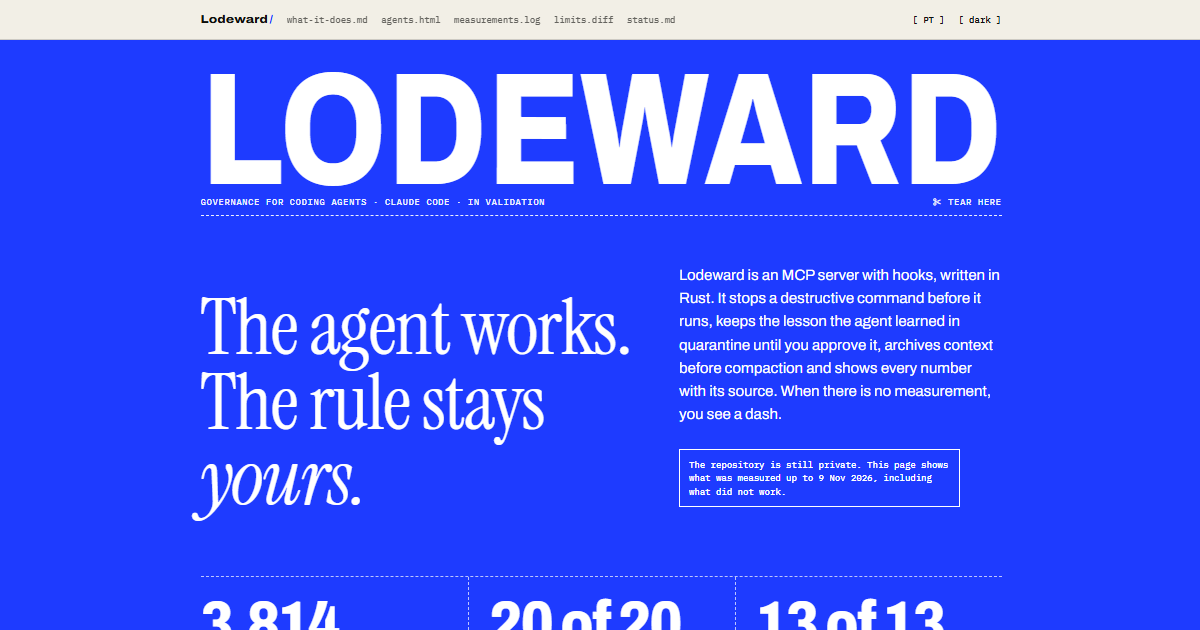
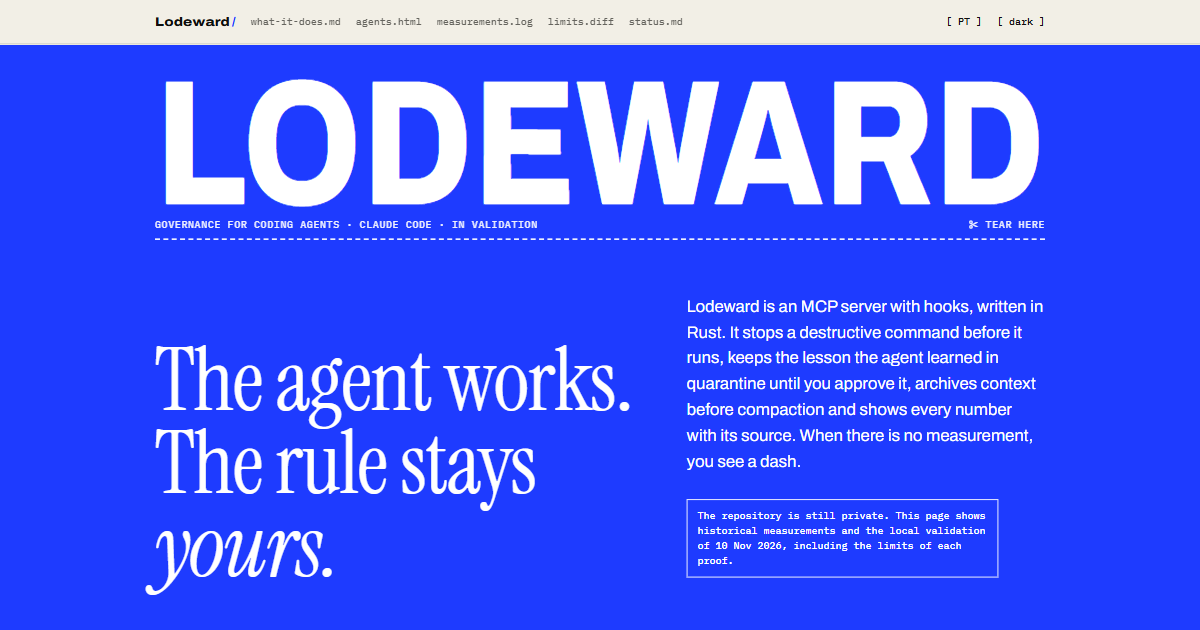
docs(lodeward): integrate verified rename evidence with current portfolio

diff --git a/lodeward/index.html b/lodeward/index.html
@@ -72,12 +72,12 @@ rotulo();b.addEventListener("click",function(){var n=atual()==="light"?"dark":"l
       <h1 id="h-heroi">O agente trabalha. A regra continua sendo <em>sua.</em></h1>
       <div>
         <p class="lide">Lodeward é um servidor MCP com hooks, escrito em Rust. Ele segura o comando destrutivo antes de rodar, deixa em quarentena a lição que o agente aprendeu até você aprovar, arquiva o contexto antes da compactação e mostra cada número com a origem. Quando não há medição, aparece um traço.</p>
-        <p class="aviso">O repositório ainda é privado. Esta página mostra o que foi medido até 09/11/2026, inclusive o que não deu certo.</p>
+        <p class="aviso">O repositório ainda é privado. Esta página mostra medições históricas e a validação local de 10/11/2026, inclusive os limites de cada prova.</p>
       </div>
     </div>
     <ul class="canhotos" role="list">
-      <li class="canhoto"><b>3.814</b><span>testes, 0 falhas</span><small>suíte completa em 08/11/2026</small></li>
-      <li class="canhoto"><b>20 de 20</b><span>verificações do ciclo de lições</span><small>quarentena, aprovação, rejeição e recarga</small></li>
+      <li class="canhoto"><b>4.213</b><span>execuções de teste aprovadas</span><small>G0 local · 10/11/2026 · 0 falhas, 26 ignoradas; inclui a suíte CLI repetida nos dois binários</small></li>
+      <li class="canhoto"><b>20 de 20</b><span>verificações históricas do ciclo de lições</span><small>protocolo anterior; a demonstração atual está na ficha F.02</small></li>
       <li class="canhoto"><b>13 de 13</b><span>comandos destrutivos bloqueados em replay</span><small>com 0 de 24 falsos positivos</small></li>
     </ul>
   </div>
@@ -119,12 +119,12 @@ rotulo();b.addEventListener("click",function(){var n=atual()==="light"?"dark":"l
       <article class="ficha sobe" aria-labelledby="f2">
         <div class="ficha-canhoto">
           <div><span class="mono num">F.02</span><h3 id="f2">Lição só vale depois que você aprova</h3></div>
-          <p class="destaque">20 de 20<small>verificações do ciclo de lições</small></p>
+          <p class="destaque">20 de 20<small>verificações históricas do ciclo de lições</small></p>
         </div>
         <dl>
-          <div><dt>O que faz</dt><dd>O que o agente propõe como lição entra em quarentena. Lição pendente não aparece na leitura. Aprovar não aplica: aplicar é outro passo, e desfazer restaura os bytes e o SHA-256 de antes.</dd></div>
-          <div class="prova"><dt>Prova</dt><dd>20 verificações do ciclo de lições e 17 do ciclo de propostas passaram no binário instalado, uma versão anterior à atual; ainda não foram repetidas no código de hoje. Em 12 pares de teste, o modelo foi de 12 abstenções para 12 aplicações exatas de regras aprovadas, num ambiente de teste com isolamento parcial.</dd></div>
-          <div class="limite"><dt>Limite</dt><dd>Das 48 propostas geradas pelo revisor automático, nenhuma foi aplicada, e 340 de 377 execuções pararam no teto diário. O mecanismo funciona. Que ele melhore o agente, não foi demonstrado.<span class="nota">Não encontramos outra ferramenta com este fluxo de aprovação de lições.</span></dd></div>
+          <div><dt>O que faz</dt><dd>O que o agente propõe como lição entra em quarentena. Lição pendente não aparece na recuperação; aprovar a torna disponível. No fluxo separado de propostas que alteram arquivos, aprovar e aplicar são passos distintos, e o rollback restaura os bytes e o SHA-256 anteriores.</dd></div>
+          <div class="prova"><dt>Prova</dt><dd>Em 10/11/2026, no release local aec177d0, duas lições artificiais ficaram invisíveis enquanto pendentes. A CLI aprovou uma e rejeitou outra; um novo processo MCP recuperou só a aprovada no projeto alpha, e nenhuma no beta. A busca de observações também respeitou o projeto nos casos Alpha/Beta testados.<span class="nota">Histórico separado: 20 verificações de lições e 17 de propostas passaram numa versão anterior; não foram repetidas nesta demonstração. Em 12 pares com modelo e isolamento parcial, houve 12 abstenções antes e 12 aplicações exatas de regras aprovadas depois.</span></dd></div>
+          <div class="limite"><dt>Limite</dt><dd>A demonstração atual usa dados artificiais, sem chamada a LLM nem credencial real. Não prova melhora do agente, segurança ao vivo ou isolamento universal. Aplicação e rollback de proposta não foram revalidados.<span class="nota">No histórico do revisor automático, nenhuma das 48 propostas foi aplicada, e 340 de 377 execuções pararam no teto diário.</span></dd></div>
         </dl>
       </article>
 
@@ -306,13 +306,17 @@ rotulo();b.addEventListener("click",function(){var n=atual()==="light"?"dark":"l
         <li><b>N4</b><span>Uso próprio diário</span></li>
         <li><b>N5</b><span>Uso público</span></li>
       </ol>
-      <p class="frase">Pela régua de avaliação que o próprio projeto escreveu antes de medir, o nível formal hoje é o de protótipo. Dos oito critérios, só a instalação limpa e reprodutível passou inteira.</p>
+      <p class="frase">Na avaliação de 09/11/2026, pela régua escrita antes de medir, o projeto ficou em N1: protótipo. Dos oito critérios, só a instalação limpa e reprodutível passou inteira. A validação local de 10/11 não repete a régua completa nem muda esse nível.</p>
 
       <p class="mono diff-titulo">Pronto</p>
       <ul class="diff" role="list">
-        <li class="mais">Suíte Rust verde em 08/11/2026: 3.814 testes, 0 falhas. Depois dela só mudou um script de medição.</li>
-        <li class="mais">Instalação limpa a partir do código, com diagnóstico em JSON válido.</li>
-        <li class="mais">Ciclo de lições e de propostas, com quarentena, aprovação e desfazer.</li>
+        <li class="mais">G0 local em aec177d0, 10/11/2026: 4.213 execuções de teste aprovadas, 0 falhas e 26 ignoradas. A mesma suíte CLI de 368 testes roda para lodeward e synapse; o total inclui essa repetição e não mede testes distintos ou cobertura nova. Formatação e clippy também passaram.</li>
+        <li class="mais">Build release local e os dois executáveis conferidos: lodeward e o alias synapse respondem “lodeward 0.3.0+aec177d0”. Três inicializações, medidas desde antes do spawn, ficaram abaixo de 2 s; o servidor se apresentou como lodeward.</li>
+        <li class="mais">tools/list preservado nos oito cenários comparados com a captura real da base 70e415e8, feita na rodada anterior e reutilizada com hashes conferidos. A base não foi executada de novo. O JSON completo coincidiu após ordenar as chaves dos objetos, preservando a ordem dos arrays, as descrições e os schemas.</li>
+        <li class="mais">Demonstração isolada de quarentena, aprovação, rejeição e recuperação em outro processo, com dados artificiais. Os filtros de projeto passaram nos casos testados.</li>
+        <li class="mais">Ciclos separados: lições com quarentena e aprovação; propostas com aprovação, aplicação e rollback. O fluxo de propostas não foi revalidado nesta rodada.</li>
+        <li class="mais">Instalação limpa e diagnóstico em JSON válido comprovados na avaliação histórica de 09/11.</li>
+        <li class="mais">Revisão independente por agente aprovou o rename local em aec177d0. A avaliação completa do produto permanece separada.</li>
         <li class="mais">Página Agentes com editor.</li>
       </ul>
 
@@ -323,7 +327,8 @@ rotulo();b.addEventListener("click",function(){var n=atual()==="light"?"dark":"l
         <li class="menos">Uma rodada ao vivo de segurança que chegue ao fim.</li>
         <li class="menos">Repositório público novo, já com o nome Lodeward.</li>
       </ul>
-      <p class="nome-antigo">O projeto se chamava SynapseEngine. O código ainda usa esse nome.</p>
+      <p class="nome-antigo">O projeto se chamava SynapseEngine. A validação local em aec177d0, registrada em 10/11/2026, conferiu lodeward e o alias synapse. O repositório é privado; esta prova não representa release pública nem prontidão do produto.</p>
+      <p class="nome-antigo"><a href="../docs/lodeward-atualizacao-2026-11-10.md">Fontes, hashes e alcance das provas desta atualização.</a></p>
     </div>
   </div>
 </section>
@@ -339,7 +344,7 @@ rotulo();b.addEventListener("click",function(){var n=atual()==="light"?"dark":"l
 </main>
 
 <footer class="pe">
-  <div class="caixa"><span>Lodeward · página de projeto · 09/11/2026</span><a href="../#p-syn">← portfólio de Marcelo Machuca</a></div>
+  <div class="caixa"><span>Lodeward · página de projeto · 10/11/2026</span><a href="../#p-syn">← portfólio de Marcelo Machuca</a></div>
 </footer>
 </body>
 </html>

diff --git a/en/lodeward/index.html b/en/lodeward/index.html
@@ -72,12 +72,12 @@ rotulo();b.addEventListener("click",function(){var n=atual()==="light"?"dark":"l
       <h1 id="h-heroi">The agent works. The rule stays <em>yours.</em></h1>
       <div>
         <p class="lide">Lodeward is an MCP server with hooks, written in Rust. It stops a destructive command before it runs, keeps the lesson the agent learned in quarantine until you approve it, archives context before compaction and shows every number with its source. When there is no measurement, you see a dash.</p>
-        <p class="aviso">The repository is still private. This page shows what was measured up to 9 Nov 2026, including what did not work.</p>
+        <p class="aviso">The repository is still private. This page shows historical measurements and the local validation of 10 Nov 2026, including the limits of each proof.</p>
       </div>
     </div>
     <ul class="canhotos" role="list">
-      <li class="canhoto"><b>3,814</b><span>tests, 0 failures</span><small>full suite on 8 Nov 2026</small></li>
-      <li class="canhoto"><b>20 of 20</b><span>lesson cycle checks</span><small>quarantine, approval, rejection and reload</small></li>
+      <li class="canhoto"><b>4,213</b><span>passing test executions</span><small>local G0 · 10 Nov 2026 · 0 failures, 26 ignored; includes the CLI suite repeated for both binaries</small></li>
+      <li class="canhoto"><b>20 of 20</b><span>historical lesson cycle checks</span><small>earlier protocol; the current demonstration is in F.02</small></li>
       <li class="canhoto"><b>13 of 13</b><span>destructive commands blocked in replay</span><small>with 0 of 24 false positives</small></li>
     </ul>
   </div>
@@ -119,12 +119,12 @@ rotulo();b.addEventListener("click",function(){var n=atual()==="light"?"dark":"l
       <article class="ficha sobe" aria-labelledby="f2">
         <div class="ficha-canhoto">
           <div><span class="mono num">F.02</span><h3 id="f2">A lesson counts only after you approve it</h3></div>
-          <p class="destaque">20 of 20<small>lesson cycle checks</small></p>
+          <p class="destaque">20 of 20<small>historical lesson cycle checks</small></p>
         </div>
         <dl>
-          <div><dt>What it does</dt><dd>What the agent proposes as a lesson goes into quarantine. A pending lesson does not show up when the agent reads. Approving does not apply: applying is a separate step, and undoing restores the previous bytes and SHA-256.</dd></div>
-          <div class="prova"><dt>Proof</dt><dd>20 lesson cycle checks and 17 proposal cycle checks passed on the installed binary, an earlier version than the current one. They have not been repeated on today's code. In 12 test pairs, the model went from 12 abstentions to 12 exact applications of approved rules, in a test environment with partial isolation.</dd></div>
-          <div class="limite"><dt>Limit</dt><dd>Of the 48 proposals generated by the automatic reviewer, none was applied, and 340 of 377 runs stopped at the daily cap. The mechanism works. That it improves the agent has not been demonstrated.<span class="nota">We did not find another tool with this lesson approval flow.</span></dd></div>
+          <div><dt>What it does</dt><dd>What the agent proposes as a lesson goes into quarantine. A pending lesson does not appear in retrieval; approval makes it available. In the separate flow for proposals that change files, approval and application are distinct steps, and rollback restores the previous bytes and SHA-256.</dd></div>
+          <div class="prova"><dt>Proof</dt><dd>On 10 Nov 2026, using local release aec177d0, two artificial lessons were invisible while pending. The CLI approved one and rejected the other; a new MCP process retrieved only the approved lesson in project alpha, and none in beta. Observation search also respected the project in the Alpha/Beta cases tested.<span class="nota">Separate historical evidence: 20 lesson checks and 17 proposal checks passed on an earlier version; this demonstration did not repeat them. In 12 pairs with a model and partial isolation, there were 12 abstentions before and 12 exact applications of approved rules after.</span></dd></div>
+          <div class="limite"><dt>Limit</dt><dd>The current demonstration uses artificial data, with no LLM call or real credential. It does not establish an improvement in the agent, live security or universal isolation. Proposal application and rollback were not revalidated.<span class="nota">In the automatic reviewer's historical record, none of 48 proposals was applied, and 340 of 377 runs stopped at the daily cap.</span></dd></div>
         </dl>
       </article>
 
@@ -306,13 +306,17 @@ rotulo();b.addEventListener("click",function(){var n=atual()==="light"?"dark":"l
         <li><b>N4</b><span>Own daily use</span></li>
         <li><b>N5</b><span>Public use</span></li>
       </ol>
-      <p class="frase">By the rubric the project wrote for itself before measuring, the formal level today is prototype. Of the eight criteria, only the clean, reproducible install passed in full.</p>
+      <p class="frase">In the 9 Nov 2026 evaluation, under the rubric written before measuring, the project reached N1: prototype. Of the eight criteria, only the clean, reproducible install passed in full. The local validation of 10 Nov does not repeat the full rubric or change this level.</p>
 
       <p class="mono diff-titulo">Done</p>
       <ul class="diff" role="list">
-        <li class="mais">Rust suite green on 8 Nov 2026: 3,814 tests, 0 failures. After it, only a measurement script changed.</li>
-        <li class="mais">Clean install from the code, with diagnostics in valid JSON.</li>
-        <li class="mais">Lesson and proposal cycle, with quarantine, approval and undo.</li>
+        <li class="mais">Local G0 on aec177d0, 10 Nov 2026: 4,213 passing test executions, 0 failures and 26 ignored. The same CLI suite of 368 tests runs for lodeward and synapse; the total includes that repetition and does not measure unique tests or new coverage. Formatting and clippy also passed.</li>
+        <li class="mais">Local release build and both binaries checked: lodeward and the synapse alias report “lodeward 0.3.0+aec177d0”. Three initializations, measured from before spawn, were below 2 s; the server identified itself as lodeward.</li>
+        <li class="mais">tools/list was preserved in the eight scenarios compared with the real capture of baseline 70e415e8, made in the previous round and reused with verified hashes. The baseline was not run again. The complete JSON matched after sorting object keys, preserving array order, descriptions and schemas.</li>
+        <li class="mais">Isolated demonstration of quarantine, approval, rejection and retrieval in another process, using artificial data. Project filters passed in the cases tested.</li>
+        <li class="mais">Separate cycles: lessons with quarantine and approval; proposals with approval, application and rollback. The proposal flow was not revalidated in this round.</li>
+        <li class="mais">Clean install and diagnostics in valid JSON established in the historical evaluation of 9 Nov.</li>
+        <li class="mais">An independent agent review approved the local rename on aec177d0. The full product evaluation remains separate.</li>
         <li class="mais">Agents page with an editor.</li>
       </ul>
 
@@ -323,7 +327,8 @@ rotulo();b.addEventListener("click",function(){var n=atual()==="light"?"dark":"l
         <li class="menos">A live security run that reaches the end.</li>
         <li class="menos">A new public repository, already named Lodeward.</li>
       </ul>
-      <p class="nome-antigo">The project used to be called SynapseEngine. The code still uses that name.</p>
+      <p class="nome-antigo">The project used to be called SynapseEngine. Local validation on aec177d0, recorded on 10 Nov 2026, checked lodeward and the synapse alias. The repository is private; this evidence does not represent a public release or product readiness.</p>
+      <p class="nome-antigo"><a href="../../docs/lodeward-atualizacao-2026-11-10.md">Sources, hashes and scope of this update's evidence.</a></p>
     </div>
   </div>
 </section>
@@ -339,7 +344,7 @@ rotulo();b.addEventListener("click",function(){var n=atual()==="light"?"dark":"l
 </main>
 
 <footer class="pe">
-  <div class="caixa"><span>Lodeward · project page · 9 Nov 2026</span><a href="../#p-syn">← Marcelo Machuca's portfolio</a></div>
+  <div class="caixa"><span>Lodeward · project page · 10 Nov 2026</span><a href="../#p-syn">← Marcelo Machuca's portfolio</a></div>
 </footer>
 </body>
 </html>

diff --git a/index.html b/index.html
@@ -181,11 +181,11 @@
   <div class="stop l" data-stop>
     <div class="pair">
       <article class="sheet rv" id="p-syn" data-build="2" data-mod="2" aria-labelledby="t-syn">
-        <header class="sh-head"><b>M-03</b><span>privado</span><span>Rust</span><span class="sh-r">988 commits</span><!-- 988 = git rev-list --count origin/main (70e415e8, 2026-11-08); o repositório ainda tem o nome antigo, SynapseEngine --></header>
+        <header class="sh-head"><b>M-03</b><span>privado</span><span>Rust</span><span class="sh-r">nível N1</span><!-- 988 = git rev-list --count origin/main (70e415e8, 2026-11-08); o repositório ainda tem o nome antigo, SynapseEngine --></header>
         <h3 class="sh-title" id="t-syn">Lodeward</h3>
         <p class="sh-lede">Governança para agentes de código no Claude Code: servidor MCP e hooks em Rust.</p>
         <p>Inspeciona cada comando de shell antes de o agente rodar, deixa a lição do agente em quarentena até o dono aprovar e mostra só números que de fato mediu. Antes se chamava SynapseEngine.</p>
-        <p class="sh-fact">988 commits desde 13 set 2026</p>
+        <p class="sh-fact">N1 · protótipo pela régua do projeto, avaliada em 09/11/2026</p>
         <p>A primeira camada aberta é o <b>Lodemap</b>: mapa vivo da arquitetura, com fluxos, histórico por versão e evidências para acompanhar mudanças.</p>
         <p><a class="lnk" href="lodeward/">Ver a página do Lodeward →</a></p><p><a class="lnk" href="lodemap/">Ver a página do Lodemap →</a></p><p><a class="lnk" href="lodemap/demo/">Abrir a demo do axios →</a></p><p><a class="lnk" href="https://github.com/skarL007/lodemap" rel="noopener">Código do Lodemap no GitHub →</a></p><p class="priv">Lodeward: repositório privado</p> <p class="priv">Lodemap: código aberto · MIT</p>
       </article>

diff --git a/en/index.html b/en/index.html
@@ -179,11 +179,11 @@
   <div class="stop l" data-stop>
     <div class="pair">
       <article class="sheet rv" id="p-syn" data-build="2" data-mod="2" aria-labelledby="t-syn">
-        <header class="sh-head"><b>M-03</b><span>private</span><span>Rust</span><span class="sh-r">988 commits</span></header>
+        <header class="sh-head"><b>M-03</b><span>private</span><span>Rust</span><span class="sh-r">level N1</span></header>
         <h3 class="sh-title" id="t-syn">Lodeward</h3>
         <p class="sh-lede">Governance for coding agents on Claude Code: an MCP server and hooks in Rust.</p>
         <p>It inspects every shell command before the agent runs it, keeps the agent's lessons in quarantine until the owner approves them, and shows only numbers it actually measured. Formerly SynapseEngine.</p>
-        <p class="sh-fact">988 commits since 13 Sep 2026</p>
+        <p class="sh-fact">N1 · prototype under the project rubric, evaluated on 9 Nov 2026</p>
         <p>The first layer to open is <b>Lodemap</b>: a versioned architecture map with navigable flows and a history of changes. Scripts generate the pages, and a test flags modules outside the model.</p>
         <p><a class="lnk" href="lodeward/">See the Lodeward page →</a></p>
         <p><a class="lnk" href="../lodemap/" hreflang="pt-BR">See the Lodemap page (in Portuguese) →</a></p>

diff --git a/docs/lodeward-atualizacao-2026-11-10.md b/docs/lodeward-atualizacao-2026-11-10.md
@@ -1,0 +1,110 @@
+# Lodeward: contrato e fontes da atualização de 10/11/2026
+
+Registro de preparação pré-publicação em 10/11/2026. Os estados de integração, disponibilidade e aprovação abaixo correspondem a este registro datado.
+
+## Objetivo e escopo
+
+Atualizar a página do Lodeward e o cartão nas homes em português e inglês, preservando a identidade de cobalto, papel e fichas de comprovantes. Preparar um rascunho de LinkedIn para revisão do dono. Nenhuma publicação, commit, push, PR ou merge faz parte desta etapa.
+
+Arquivos de produto permitidos: `lodeward/index.html`, `en/lodeward/index.html` e somente o cartão Lodeward em `index.html` e `en/index.html`. Em `assets/site.js`, a exceção autorizada é trocar o nome visível do projeto e o rótulo de delegação pt/en por Lodeward, preservando IDs, geometria, contagens e demais dados. A folha `assets/lodeward/lodeward.css` só será alterada se uma falha visual exigir. As imagens `assets/lodeward/og-pt.png` e `og-en.png` podem ser regeneradas como capturas reais para refletir o hero final. Os documentos desta atualização usam o prefixo `docs/lodeward-`.
+
+## Aceitação e mudanças
+
+| Critério | Mudança prevista | Evidência exigida |
+|---|---|---|
+| Marca fiel ao estado local | Explicar o executável `lodeward` e o alias `synapse`, distinguindo validação local de release pública | G0, release, versões, initialize e comparação completa de `tools/list` conferidos em `aec177d0`; correções dos scripts auxiliares verificadas e revisão independente por agente aprovada no escopo local |
+| Nível sem promoção indevida | Manter N1, identificar a avaliação histórica e explicar protótipo | Régua pré-registrada e avaliação de 09/11/2026 |
+| Cartões com status verificável | Substituir o contador de commits sem fonte por nível N1 e data da avaliação | Mesma avaliação histórica |
+| Nenhuma exclusividade presumida | Descrever a aprovação de lições para recuperação; separar aprovação, aplicação e rollback de propostas de arquivos | Protocolo de reprodução do ciclo de aprendizagem |
+| Números com origem e data | Atualizar o G0 com execuções aprovadas, ignoradas e repetição da suíte CLI; separar cada protocolo | G0 em `aec177d0`, fontes e hashes abaixo |
+| Visual aprovado preservado | Usar HTML e estilos existentes | Navegador real em desktop e celular, claro e escuro; screenshots inspecionados |
+| Página navegável e íntegra | Verificar tema, âncoras, idiomas, cartão, assets, metadados e ausência de overflow | Relatório de Playwright com Edge, console e erros de página |
+| Post revisável | Texto pt-BR/EN com problema, fluxo, prova datada e limites | `docs/lodeward-linkedin-2026-11-10.md` |
+
+## Fontes históricas
+
+Os caminhos desta tabela são relativos ao repositório privado do motor. São referências de auditoria, não links públicos nem instruções de instalação. As provas históricas não validam automaticamente o ramo de rename.
+
+| Afirmação | Fonte e alcance |
+|---|---|
+| N1, protótipo; só V6 integralmente aprovado em 09/11/2026 | `docs/EVALUATION_RUBRIC.md:9-14,20-27,37-39`; avaliação sobre `70e415e8`, registrada em `docs/plans/lodeward-landing-contrato.md`, seção 6 |
+| G0 histórico: 3.814 testes, zero falhas | G0 r5 em `ef5213a0`, 08/11/2026, registrado no contrato anterior, seção 6; não é o resultado do rename |
+| Ciclo de lições com 20 verificações; fluxo separado de propostas com 17, aprovação distinta da aplicação e undo que restaura bytes e SHA-256 | `docs/evidence/release_2026_11_03/MCP_APRENDIZAGEM_REPRODUCAO.md:21-22,66-68`; binário instalado anterior ao código atual |
+| Recuperação em empate: 457 contra 456 em 470 consultas | `docs/evidence/release_2026_11_03/MATRIZ_BENCHMARKS.md:9` |
+| Economia em sessão longa não demonstrada | `docs/evidence/release_2026_11_03/MATRIZ_BENCHMARKS.md:10`; razão 1,2133 em 45 pares |
+| Comparação A/B da compactação ainda não executada | `docs/plans/lodeward-landing-contrato.md:151,224`; medição pendente, separada do benchmark de sessão longa |
+| Rodada ao vivo de segurança abortada em duas tentativas | `docs/benchmarks/ab_completo/RESULTADO_REV5.md:77-79` e `docs/benchmarks/ab_completo/DESVIO_D5-7_CAMADA1.md:9`, conforme contrato anterior |
+| Tokens, quando citados | Sempre estimativa por bytes ÷ 4, sem conversão financeira |
+
+Os demais números históricos preservados na página mantêm as fontes da seção 6 de `docs/plans/lodeward-landing-contrato.md`; o cupom continua datado até 09/11/2026. A demonstração local de 10/11 é uma prova adicional, não uma repetição de todos esses protocolos.
+
+## Provas locais de 10/11/2026
+
+Pacote de evidências identificado como `rename-lodeward/2026-11-10-aec177d0`, mantido localmente. Os nomes abaixo identificam os arquivos auditados, sem expor diretórios privados. Estes arquivos não são apresentados como links públicos. O commit testado é `aec177d09be8e6dffd1262d2152e37d167f53e91`.
+
+| Afirmação | Fonte e alcance |
+|---|---|
+| G0 aprovado; 4.213 execuções aprovadas, zero falhas, 26 ignoradas, 24 filtradas, 263 grupos de resumo | `g0-result.json`: campos `status`, `head`, `gates`, `test_summary_blocks` e `test_counts`; `test.log` com SHA-256 abaixo |
+| O total conta execuções, não testes distintos nem cobertura nova | `g0-result.json`: `counting_note`, `cli_main_blocks`; a mesma suíte `main.rs` tem 368 execuções no alvo lodeward e 368 no alvo synapse; há resumos de processos filhos |
+| Formatação e lint passaram | `g0-result.json`: `cargo fmt --all -- --check` e `cargo clippy --workspace --all-targets -- -D warnings`, ambos com código de saída 0 |
+| Build release local passou | `runtime-result.json`: `builds[label=current]`, comando `cargo build --release -p lodeward-cli --bins`, saída 0; não equivale a build release de todo o workspace nem release pública |
+| Os dois executáveis reportam literalmente `lodeward 0.3.0+aec177d0` | `runtime-result.json`: `versions`, comandos `lodeward.exe --version` e `synapse.exe --version`, ambos com saída 0 |
+| Três inicializações abaixo de 2 s, contando desde antes do spawn | `runtime-result.json`: `runs[current-repeat1..3].initialize_total_ms` = 25.025499984622, 23.825000040233135 e 23.131900001317263 ms; `server_name=lodeward` e saída 0 nas três amostras. Não é garantia sobre toda execução |
+| `tools/list` preservado nos oito cenários comparados com a captura real de `70e415e8` | `runtime-result.json`: `comparisons`, todas com `byte_identical=true`; `baseline_mode` e `baseline_provenance` registram captura da rodada `aa650f9a`, reutilizada com hashes e proveniência conferidos. A base não foi executada novamente nesta rodada. `runtime-report.md` documenta ordenação recursiva de chaves de objetos sem remover campos, preservando ordem dos arrays, descrições e schemas |
+| Quarentena invisível, aprovação/rejeição e recuperação em novo processo | `fluxo/runtime-9h93rdo5/workflow-result.json`, critérios `quarentena`, `invisivel_antes`, `recuperacao_apos_aprovacao` e `rejeicao`; eventos `01`, `03`, `04` e `05` do `workflow-log.json` |
+| Filtros de projeto nos casos demonstrativos | Critérios `filtro_projeto_licao` e `isolamento_busca_observacoes`; eventos `05`, `07` e `08` do mesmo log. São casos artificiais Alpha/Beta, não uma prova universal de isolamento |
+| Binário do fluxo preservado | `workflow-result.json`: SHA-256 esperado, antes e depois iguais ao hash de lodeward.exe abaixo. O fluxo não leu o Git HEAD; a associação ao release vem do hash e do registro do operador |
+| Revisão independente por agente aprova o rename/local, sem achado acionável aberto nesse escopo | `review-g1-final/report.md` e `evidence-check.json`, HEAD `aec177d0`; conferência direta de código, reproduções e evidências. Não é revisão externa de usuário, certificação global do produto, promoção de nível ou autorização de publicação |
+
+Os executáveis finais foram preservados como cópias independentes em `artifacts/`, com link count 1 e identidades de arquivo distintas do target, conforme `runtime-result.json`: `executable_copies`. A demonstração de lições foi repetida com esse binário final; não se transferiu o resultado do executável anterior.
+
+Transcrição sanitizada do fluxo observado:
+
+```text
+01: duas lições artificiais registradas como LEARNING_QUARANTINED;
+    leitura do projeto alpha: learnings=[], pending_total=2.
+03: CLI aprovou a primeira lição.
+04: CLI rejeitou a segunda lição.
+05: outro processo recuperou apenas a lição aprovada em alpha;
+    leitura de beta: learnings=[], returned=0.
+07: observações artificiais com termos diferentes registradas em Alpha e Beta.
+08: outro processo em Alpha encontrou o termo de Alpha;
+    busca pelo termo exclusivo de Beta: results=[], total=0.
+```
+
+Passaram seis critérios funcionais e a verificação de hash. Essa demonstração usa dados artificiais e runtime novo isolado. Não chamou LLM, não usou credencial real e não revalidou aplicação ou rollback de proposta. Não equivale a repetir os 20/17 checks históricos.
+
+### Cenários de catálogo MCP
+
+Os oito cenários com JSON completo coincidente entre o release local final e os dados reais da base anterior, capturados na rodada `aa650f9a` e reutilizados com integridade verificada:
+
+| Perfil | `outputSchema` completo | Ferramentas por lado |
+|---|---|---|
+| default | não | 19 |
+| core | não | 19 |
+| review | não | 4 |
+| factory | não | 44 |
+| agent | não | 6 |
+| factory-agent | não | 11 |
+| full | não | 58 |
+| full | sim | 58 |
+
+São verificações de catálogo, não chamadas às ferramentas. O resultado não demonstra compatibilidade integral dos scripts ou comportamento de todo o produto.
+
+### Integridade dos artefatos
+
+| Artefato | SHA-256 |
+|---|---|
[5 lines of base64/hex data omitted]
+
+## Limites que permanecem
+
+N1 não é N3 nem validação de produto. A avaliação completa não foi repetida no ramo de rename. A recuperação ficou em empate; a economia em sessão longa não foi demonstrada; a segurança ao vivo foi abortada. A comparação A/B da compactação ainda não rodou e não é o benchmark de sessão longa. Um teste do mecanismo de lições não demonstra melhora geral de um modelo. O repositório continua privado, e validação local não é lançamento público.
+
+## Revisão local e registro pré-publicação
+
+A comparação de `tools/list` passou nos oito cenários descritos. As correções dos scripts auxiliares foram verificadas e a revisão independente por agente aprovou o rename/local em `aec177d0`, sem achado acionável aberto nesse escopo. Não se alega certificação geral de compatibilidade nem alteração do nível N1. Este registro documenta a validação local de 10/11/2026; não representa release pública nem prontidão do produto. A inspeção do cartão pelo LinkedIn não faz parte desta verificação local. Este documento registra a preparação para revisão pública do texto; decisões posteriores de publicação devem ser registradas separadamente.

diff --git a/docs/lodeward-linkedin-2026-11-10.md b/docs/lodeward-linkedin-2026-11-10.md
@@ -1,0 +1,66 @@
+# Lodeward: rascunho LinkedIn de 10/11/2026
+
+Versão preparada para revisão pré-publicação do dono em 10/11/2026. Este registro descreve o estado naquela data; não registra autorizações ou publicações posteriores. As fontes e os limites estão após as duas versões; não precisam acompanhar o texto do post.
+
+## Português
+
+Uma lição errada pode virar contexto para a próxima decisão de um agente de código. Eu queria conseguir revisar essa lição antes de ela ser usada.
+
+É um dos problemas que estou trabalhando no Lodeward, um servidor MCP com hooks em Rust para agentes de código no Claude Code.
+
+O fluxo é explícito: o agente propõe uma lição, ela entra em quarentena, e o dono decide se aprova. A lição aprovada fica disponível à recuperação.
+
+Propostas que alteram arquivos têm um fluxo separado: aprovação e aplicação são passos distintos. O rollback da proposta restaura os bytes e o SHA-256 anteriores; esse fluxo não foi revalidado na rodada de hoje.
+
+Na demonstração local de 10/11/2026, com o binário aec177d0, duas lições artificiais ficaram invisíveis enquanto pendentes. Depois de aprovar uma e rejeitar outra pela CLI, um novo processo MCP recuperou só a aprovada no projeto alpha, e nenhuma no beta. A busca de observações também respeitou o projeto nos casos Alpha/Beta testados.
+
+Isso demonstra o mecanismo nesses casos, com dados artificiais. Não houve chamada a LLM nem credencial real. A execução não prova melhora do agente, segurança ao vivo ou isolamento universal.
+
+A página também mostra o que não deu certo. A recuperação ficou em empate com BM25. A economia em sessão longa não foi demonstrada. A rodada ao vivo de segurança foi abortada nas duas tentativas registradas.
+
+A comparação A/B da compactação ainda não rodou. Ela é uma medição pendente, separada do benchmark de sessão longa.
+
+Neste registro de 10/11/2026, o nível formal permanece N1, protótipo, pela avaliação de 09/11/2026. A validação local em aec177d0 conferiu o executável lodeward e o alias synapse. O repositório é privado; essa prova não representa release pública nem prontidão do produto.
+
+Página com medições e limites: https://skarl007.github.io/lodeward/
+
+#mcp #agentesdeia #rust #engenhariadesoftware
+
+## English
+
+A wrong lesson can become context for a coding agent's next decision. I wanted to review that lesson before it was used.
+
+That is one of the problems I am working on with Lodeward, an MCP server with Rust hooks for coding agents on Claude Code.
+
+The flow is explicit: the agent proposes a lesson, it goes into quarantine, and the owner decides whether to approve it. An approved lesson becomes available to retrieval.
+
+Proposals that change files have a separate flow: approval and application are distinct steps. Rolling back a proposal restores the previous bytes and SHA-256; that flow was not revalidated in today's round.
+
+In the local demonstration of 10 Nov 2026, using binary aec177d0, two artificial lessons were invisible while pending. After approving one and rejecting the other through the CLI, a new MCP process retrieved only the approved lesson in project alpha, and none in beta. Observation search also respected the project in the Alpha/Beta cases tested.
+
+That demonstrates the mechanism in these cases, using artificial data. There was no LLM call or real credential. The run does not establish an improvement in the agent, live security or universal isolation.
+
+The page also shows what did not work. Retrieval tied with BM25. Savings in a long session were not demonstrated. The live security run was aborted in both recorded attempts.
+
+The compaction A/B comparison has not run yet. It is a pending measurement, separate from the long-session benchmark.
+
+At this checkpoint on 10 Nov 2026, the formal level remains N1, prototype, under the 9 Nov 2026 evaluation. Local validation on aec177d0 checked the lodeward executable and the synapse alias. The repository is private; this evidence does not represent a public release or product readiness.
+
+Page with measurements and limits: https://skarl007.github.io/en/lodeward/
+
+#mcp #aiagents #rust #softwareengineering
+
+## Fontes e revisão
+
+- Prova atual: pacote local de evidências `rename-lodeward/2026-11-10-aec177d0`, arquivos `fluxo/runtime-9h93rdo5/workflow-result.json` e `workflow-log.json`, eventos `01-registro-e-antes`, `03-aprovar`, `04-rejeitar`, `05-recuperacao-novo-processo`, `07-observacoes-por-projeto` e `08-busca-apos-reinicio`. Hashes e transcrição sanitizada em `docs/lodeward-atualizacao-2026-11-10.md`.
+- Fluxo histórico de propostas: `docs/evidence/release_2026_11_03/MCP_APRENDIZAGEM_REPRODUCAO.md:66-68`, no repositório privado do motor. Não foi revalidado pela demonstração atual de lições.
+- Recuperação: `docs/evidence/release_2026_11_03/MATRIZ_BENCHMARKS.md:9`.
+- Economia em sessão longa não demonstrada: `docs/evidence/release_2026_11_03/MATRIZ_BENCHMARKS.md:10`.
+- Comparação A/B da compactação ainda não executada: `docs/plans/lodeward-landing-contrato.md:151,224`; não é o benchmark de sessão longa.
+- Segurança ao vivo: `docs/benchmarks/ab_completo/RESULTADO_REV5.md:77-79` e `docs/benchmarks/ab_completo/DESVIO_D5-7_CAMADA1.md:9`, conforme contrato histórico.
+- N1: `docs/EVALUATION_RUBRIC.md:9-14,20-27,37-39`, avaliação de 09/11/2026 sobre `70e415e8`.
+- Fontes e escopo da atualização: `docs/lodeward-atualizacao-2026-11-10.md`.
+
+O texto usa a demonstração repetida no binário final do mecanismo de lições; ela não repete os 20/17 checks históricos nem demonstra benefício em um agente LLM. `tools/list` coincidiu, nos oito cenários, com a captura real da base anterior feita na rodada `aa650f9a`, reutilizada com hashes conferidos; a base não foi executada de novo. As correções dos scripts auxiliares foram verificadas e a revisão independente por agente aprovou o rename/local em `aec177d0`; fontes: `review-g1-final/report.md` e `evidence-check.json`, no pacote de evidências final. Essa aprovação é do escopo local e não autoriza publicação. Nenhum benefício de modelo, economia, exclusividade ou lançamento público foi inferido.
+
+Mídia sugerida: captura real do cupom de medições ou do estado da página, após a atualização. O cartão Open Graph usa `assets/lodeward/og-pt.png` e `og-en.png`. O Post Inspector do LinkedIn ainda não foi verificado nesta atualização.
